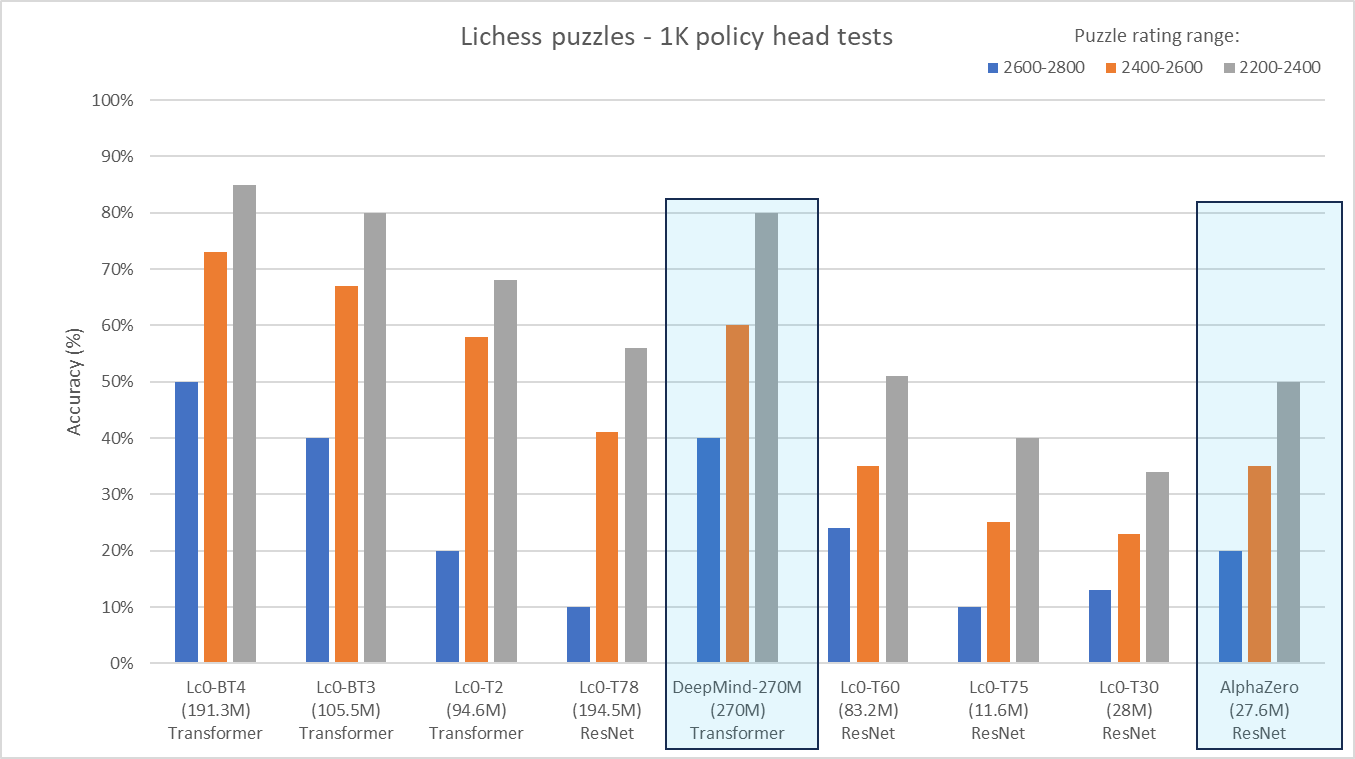
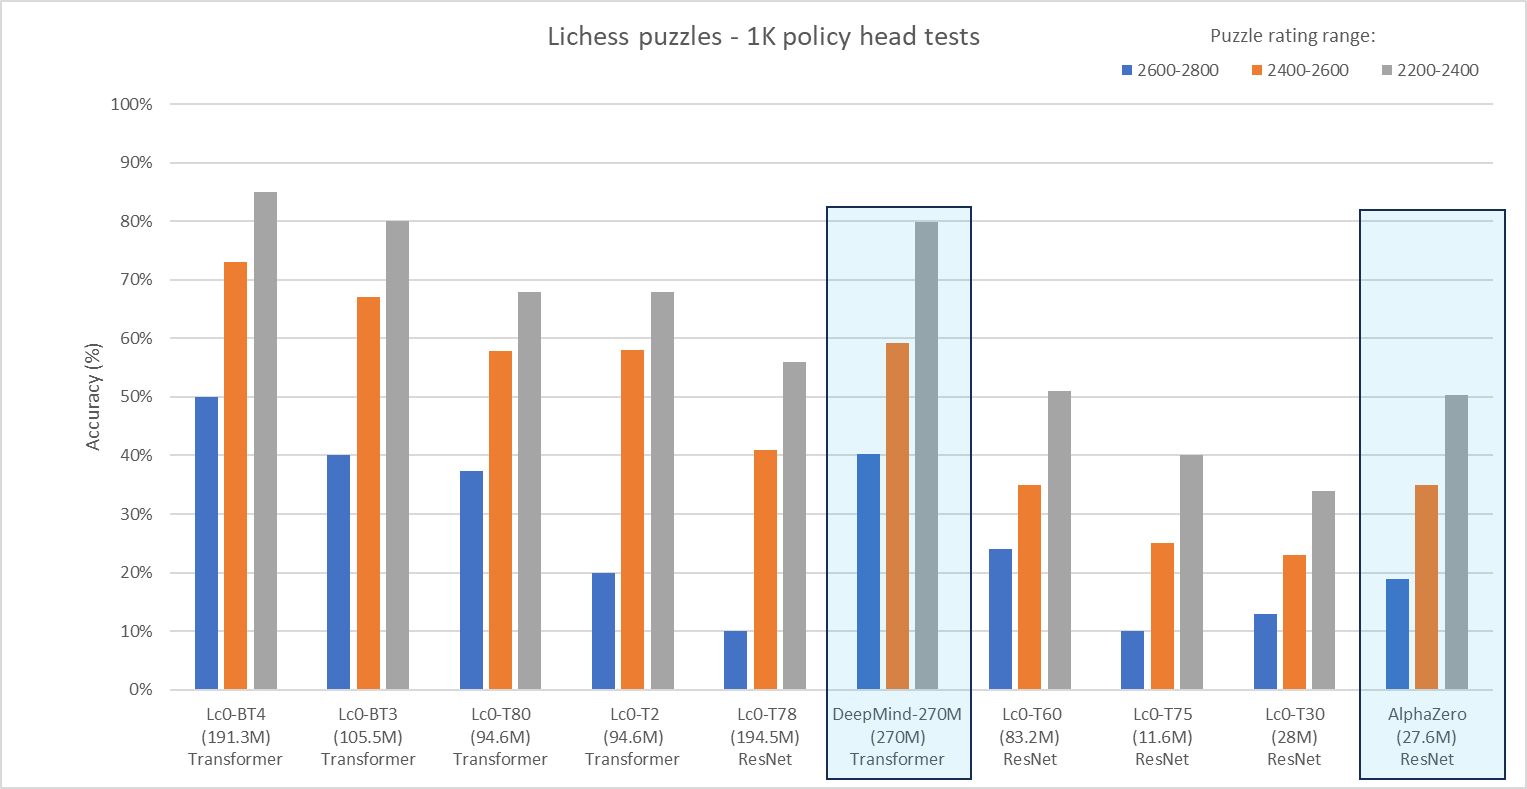
review comments

diff --git a/content/blog/2024/network_comparison/index.md b/content/blog/2024/network_comparison/index.md
@@ -25,7 +25,7 @@ To gauge the effectiveness of our models, we employed a metric called "puzzle ac
 
 #### Comparison 1 – value network
 
-We created a comparison chart that evaluates the value network of various Lc0 networks, AlphaZero, and the latest 270M-parameter network from DeepMind.
+We created a comparison chart that evaluates the value network of various Lc0 networks, AlphaZero, and the latest 270M-parameter network from DeepMind. The data are presented in descending order for the 2600-2800 value puzzle accuracy and the blue boxes indicate the results from the DeepMind paper.
 
 ![](value_head_tests.png)
 
@@ -33,11 +33,11 @@ As you can see from the chart, the latest Lc0 networks are significantly stronge
 
 #### Comparison 2 – policy network
 
-We finally created a comparison chart that evaluates the policy network accuracy of the same networks. We kept the value network test of DeepMind’s networks in this comparison chart for convenience – they are not strictly comparable. In general, a puzzle test performance based on value is typically about 150 Elo stronger than a policy test (but quite a bit slower).
+We finally created a comparison chart that evaluates the policy network accuracy of the same networks. We kept the value network test of DeepMind’s networks in this comparison chart for convenience – they are not strictly comparable. In general, a puzzle test performance based on value is typically about 150 Elo stronger than a policy test (but quite a bit slower). The data are presented in the same order as the previous figure, with the blue boxes again indicating the results from the DeepMind paper.
 
 ![](policy_head_tests.png)
 
-As you can see from the chart, the latest BT4 network[^2] is stronger in policy accuracy than the best transformer network from DeepMind is in value accuracy. The improvement in accuracy with the latest transformer networks has been steadily improving with the size of the model.
+As you can see from the chart, the latest BT4 network[^2] is stronger in policy puzzle accuracy than the best transformer network from DeepMind is in value puzzle accuracy. The improvement in accuracy with the latest transformer networks has been steadily improving with the size of the model.
 
 [^1]: EngineBattle is a chess GUI/tool with added Lc0 features that is under development by one of the members of our community and will be released as open source in the near future.
 
